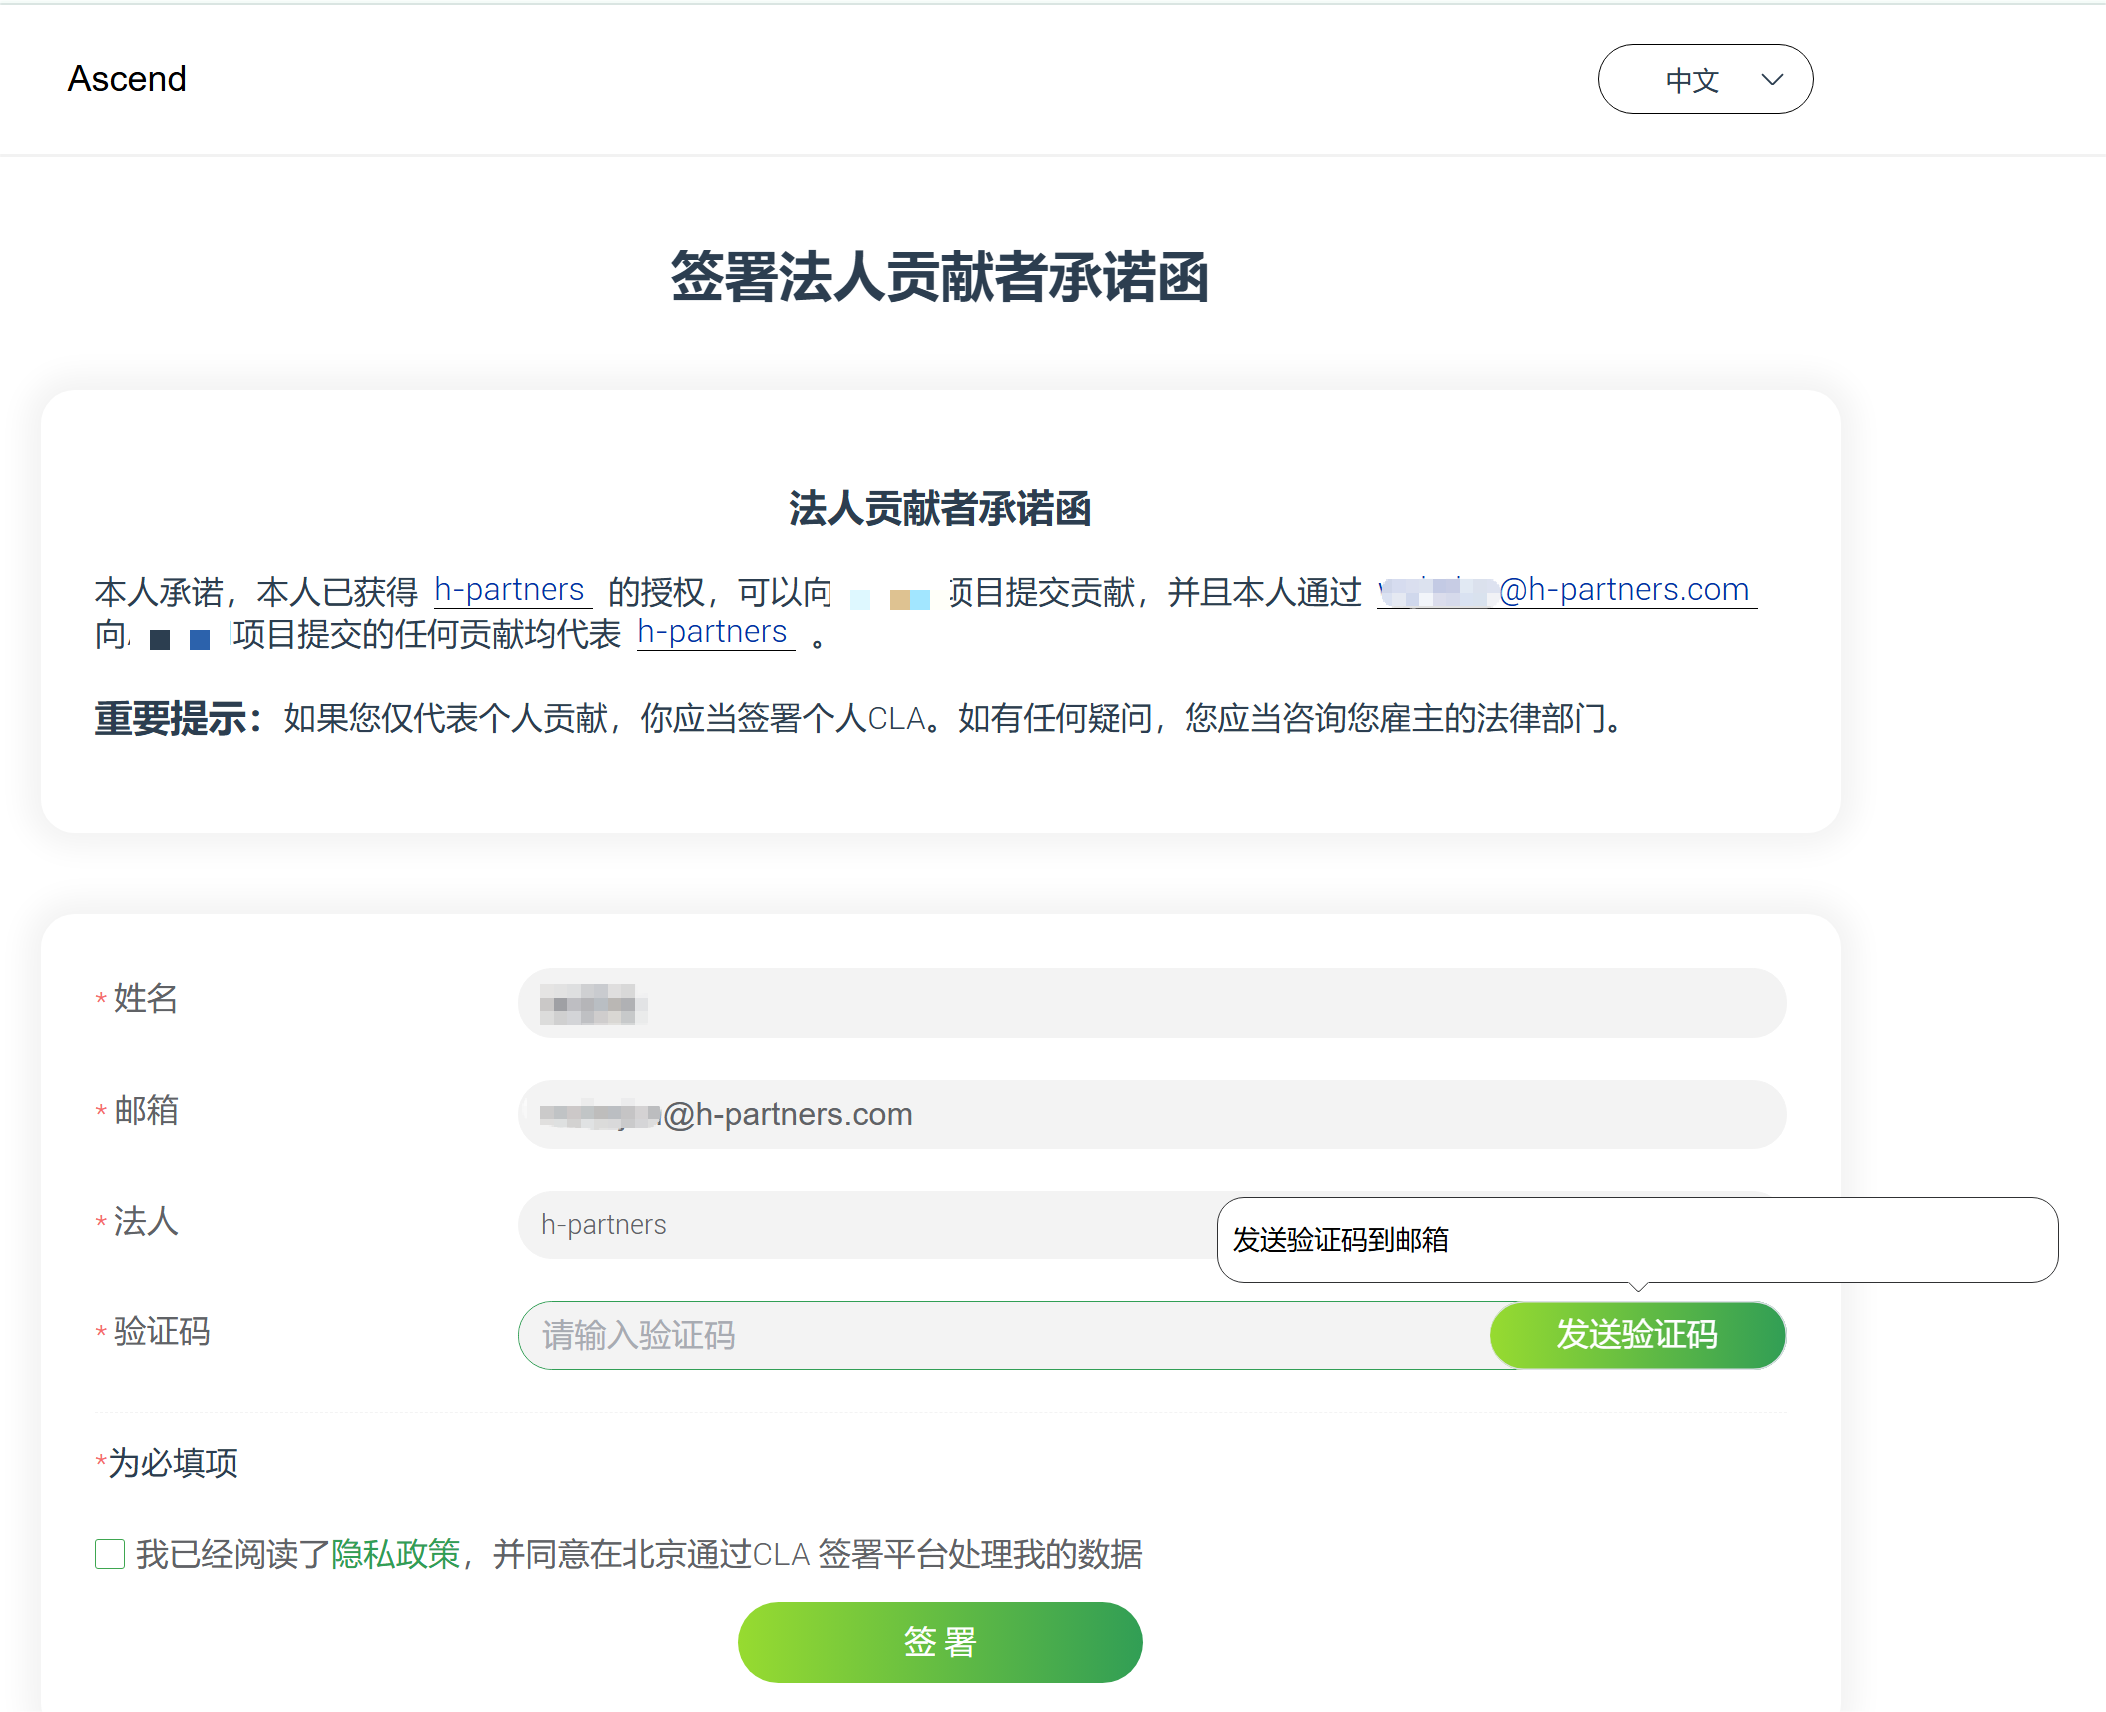
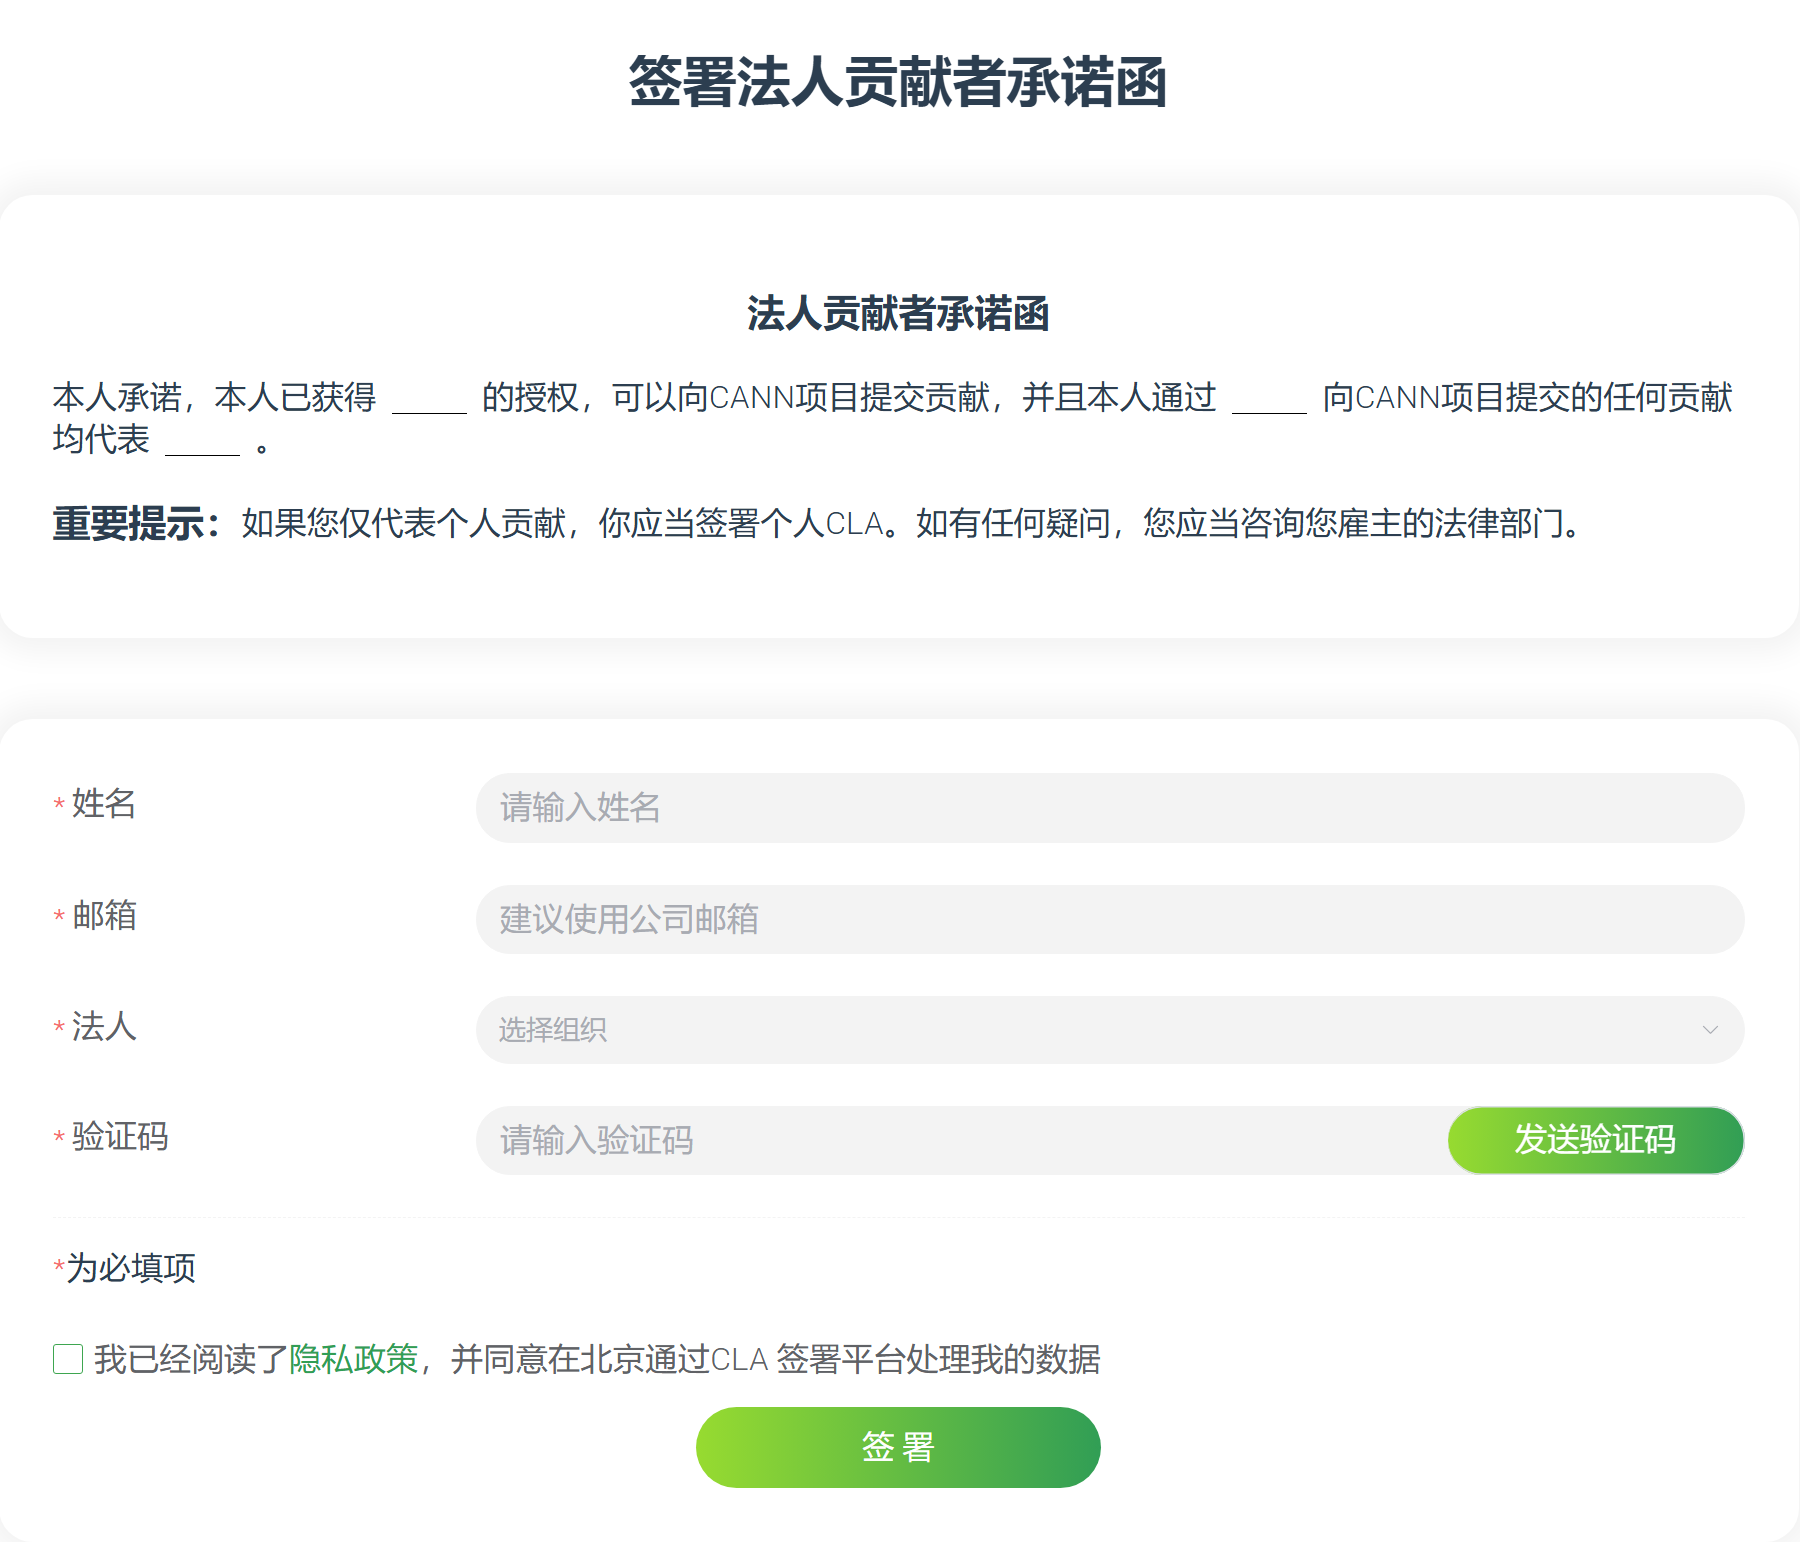
feat:完善cann社区cla使用指南文档

diff --git a/docs/cla/cla使用指南.md b/docs/cla/cla使用指南.md
@@ -1,12 +1,23 @@
-# CLA 签署指南
+# CLA使用指南
 
 根据你的身份，选择对应的操作流程，这是最快完成签署的方法。
 
+## [👉 CANN社区CLA签署首页](https://clasign.osinfra.cn/sign/68cbd4a3dbabc050b436cdd4)
+
 ![alt text](images/image-2.png)
+
+## [👉 我是个人开发者，为自己做贡献](#personal-contributor)
+
+## [👉 我是企业员工，代表公司做贡献](#employee-contributor)
+
+## [👉 我是企业代表，需要为公司签署](#company-representative)
 
 ---
 
+<a id="personal-contributor"></a>
 ## 🤔 我是个人开发者，为自己做贡献
+
+## [👉 签署个人CLA](https://clasign.osinfra.cn/sign-cla/68cbd4a3dbabc050b436cdd4/individual)
 
 ![alt text](images/image-3.png)
 
@@ -43,7 +54,11 @@
 
 ---
 
+<a id="employee-contributor"></a>
 ## 🏢 我是企业员工，代表公司做贡献
+
+## [👉 法人贡献者登记](https://clasign.osinfra.cn/sign-cla/68cbd4a3dbabc050b436cdd4/employee)
+
 ![alt text](images/image-4.png)
 
 **注意：如果您是学校师生，请根据您的贡献身份选择对应流程：**
@@ -72,7 +87,10 @@
 
 ---
 
+<a id="company-representative"></a>
 ## 🏛 我是企业代表，需要为公司签署 CLA
+
+## [👉 签署法人CLA](https://clasign.osinfra.cn/sign-cla/68cbd4a3dbabc050b436cdd4/corporation)
 
 ![alt text](images/image-5.png) 
 
@@ -95,13 +113,16 @@
 
 ![alt text](images/image-7.png)
 
-3.  **设置公司的审批人员（至关重要！超级管理员和普通管理员不能是同一个账号）**
+1.  **设置公司的审批人员（至关重要！超级管理员和普通管理员不能是同一个账号）**
     - 超级管理员在签署页面点击 企业管理员 按钮进入到超级管理员登录页面，使用之前获得的**超级管理员**帐号的用户名及初始密码进行登录（记得更新密码）
     - 作为超级管理员，您的首要任务是：**立即为公司创建几位「普通管理员」**（例如各研发团队的负责人），将 **审批员工申请** 的日常工作分配给他们，以确保公司内部的 CLA 流程顺畅
     - 普通管理员也会收到一封包含了**普通管理员**帐号的用户名及初始密码的邮件，其登录流程与超级管理员一致，
     - 之后，你就可以让你的员工进行法人贡献者登记了，然后让普通管理员进行审批了。
 
-4. **点击企业管理员，使用超级管理员或者普通管理员账号进行登录**
+2. **点击企业管理员，使用超级管理员或者普通管理员账号进行登录**
+
+## [👉 企业管理员](https://clasign.osinfra.cn/corporation-manager-login/68cbd4a3dbabc050b436cdd4)
+
 
 ![alt text](images/image-8.png)
 
@@ -121,9 +142,9 @@
 
 ## ✅ CLA 签署状态验证（个人以及企业员工）
 
-签署完成后，可以通过以下链接进行验证（将 `:community-link-id` 和邮箱替换为你签署 CLA 时的实际信息）：
+签署完成后，可以通过以下链接进行验证（将邮箱替换为你签署 CLA 时的实际信息）：
 
-https://clasign.osinfra.cn/api/v1/individual-signing/:community-link-id?email=your-email@example.com
+https://clasign.osinfra.cn/api/v1/individual-signing/68cbd4a3dbabc050b436cdd4?email=your-email@example.com
 
 
 **成功标志**：返回结果中必须包含两个 `true` 值
@@ -319,3 +340,18 @@ git push --force
 
 #### 5. 问：收不到来自社区发来的签署cla的邮件或找不到管理员怎么办？
 **答： 首先检查邮箱的垃圾邮件文件夹。如果仍无法找到，请在公司的技术交流群或直接向你的上级询问："我们公司开源 CLA 的审批负责人是谁？"**
+
+
+## 备注
+
+在使用过程中，如遇到任何问题或需要协助，欢迎通过以下方式联系我们：
+
+### 问题反馈渠道
+
+| 方式 | 说明 | 响应时间 |
+|------|------|----------|
+| 📝 **提交ISSUE** | 通过项目仓库的Issue板块反馈问题 | 1-5个工作日 |
+| 👥 **联系基础设施SIG** | 直接联系基础设施特别兴趣小组获取专业技术支持 | 及时响应 |
+| 💬 **社区讨论** | 参与相关技术社区讨论，与其他开发者交流经验 | 实时交流 |
+
+我们将竭诚为您提供帮助，确保使用过程顺畅无忧。
